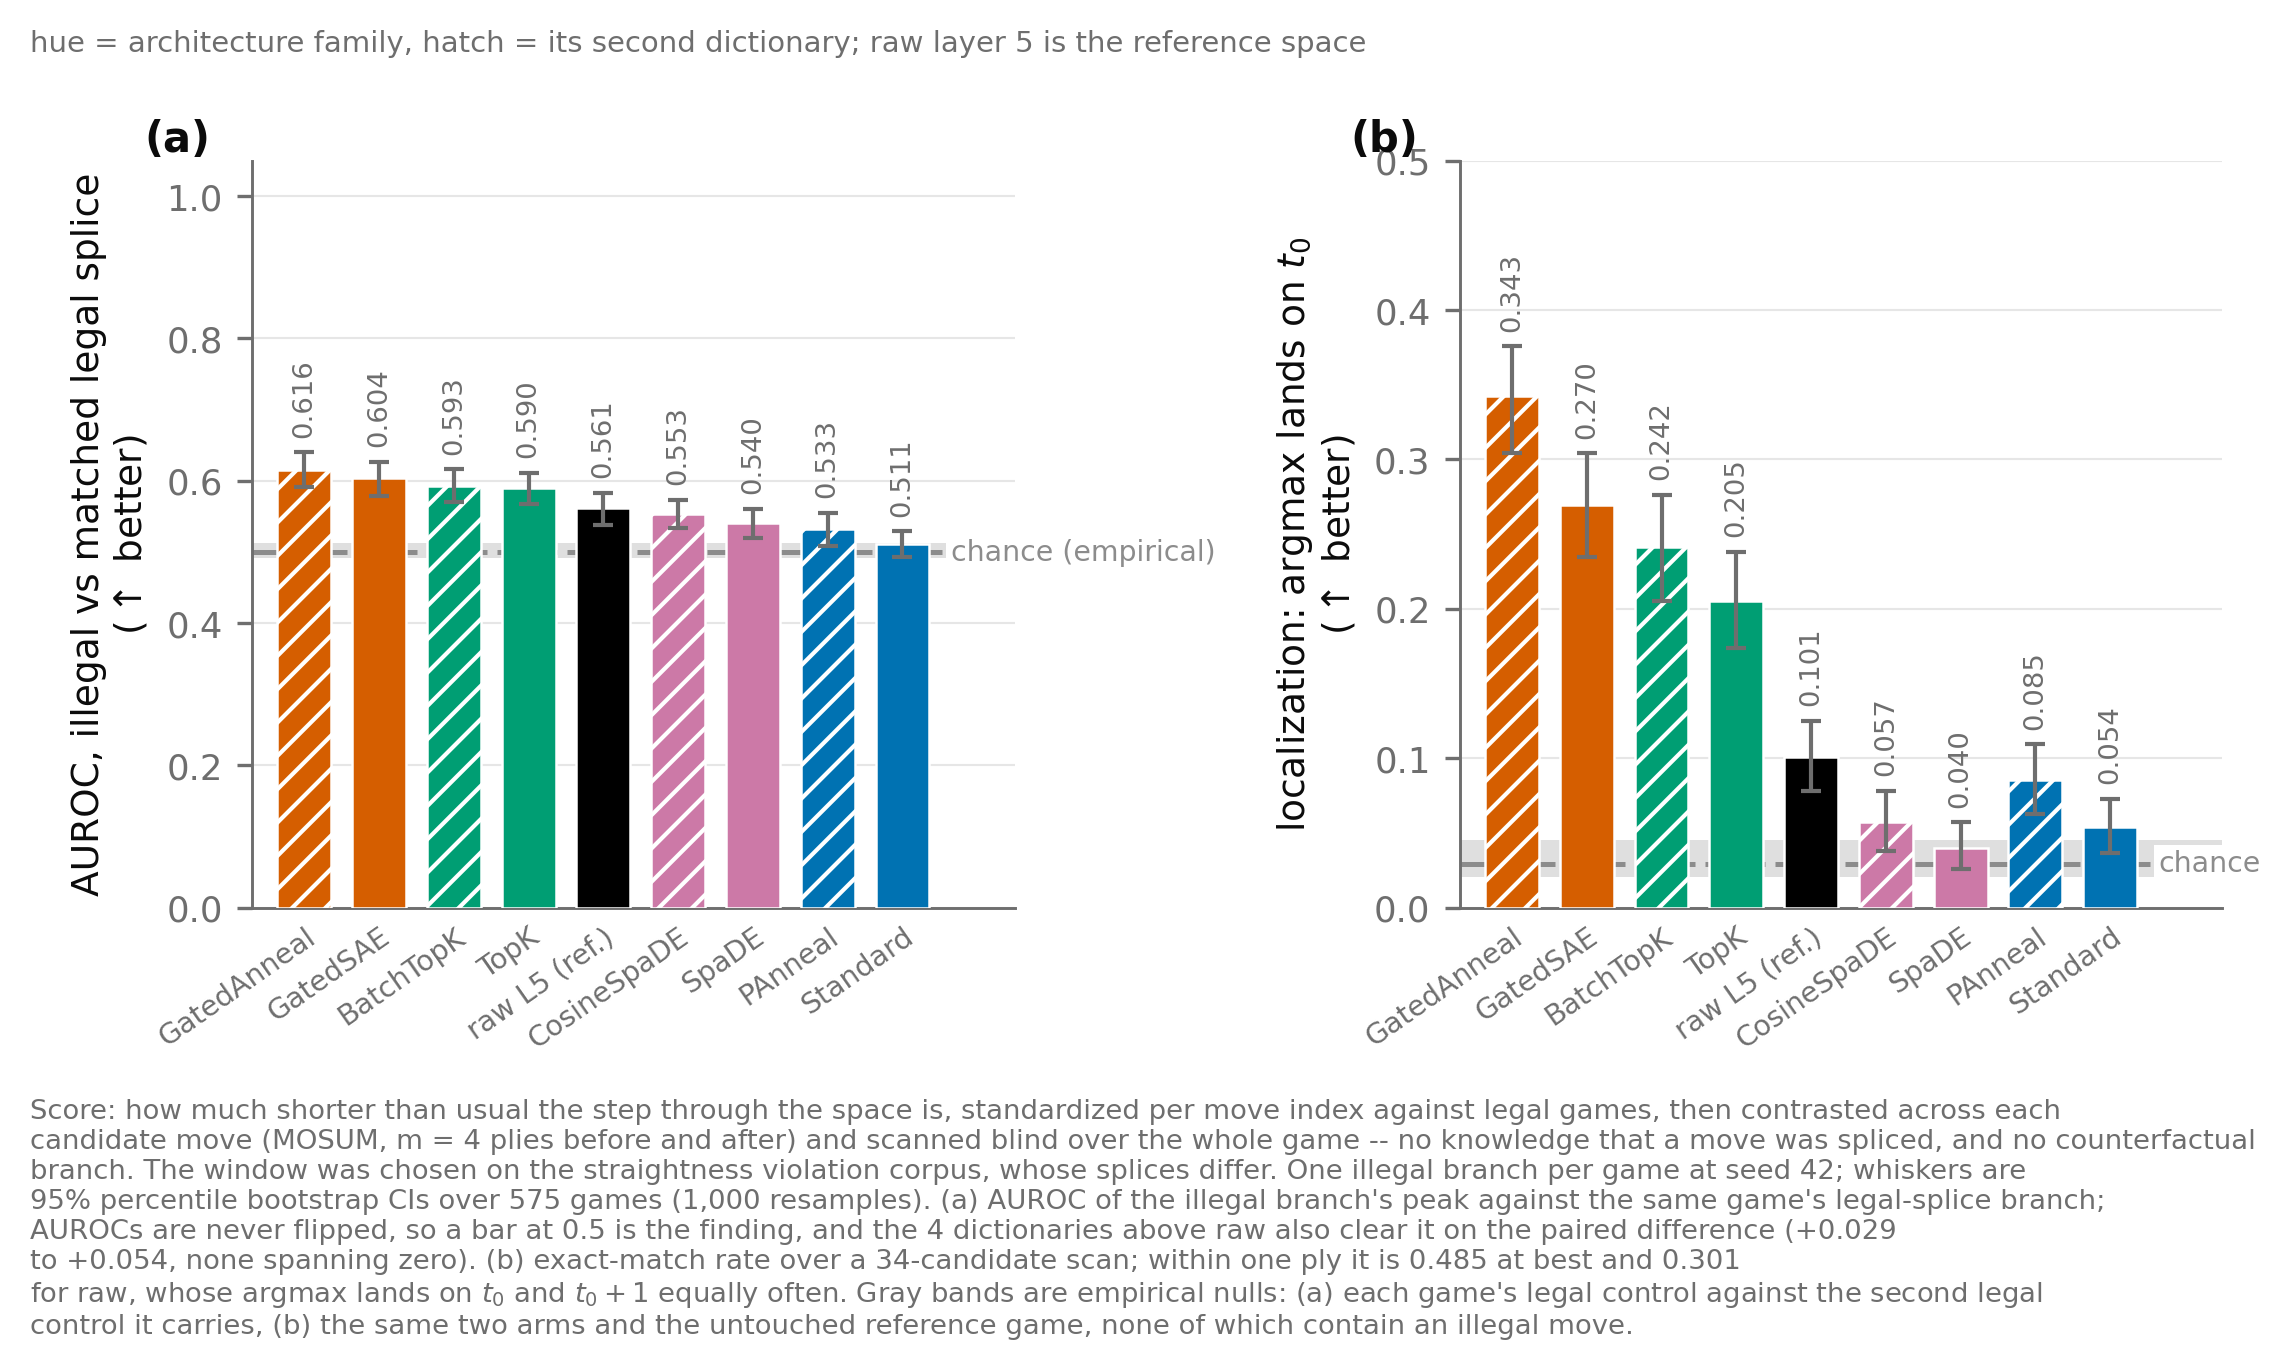
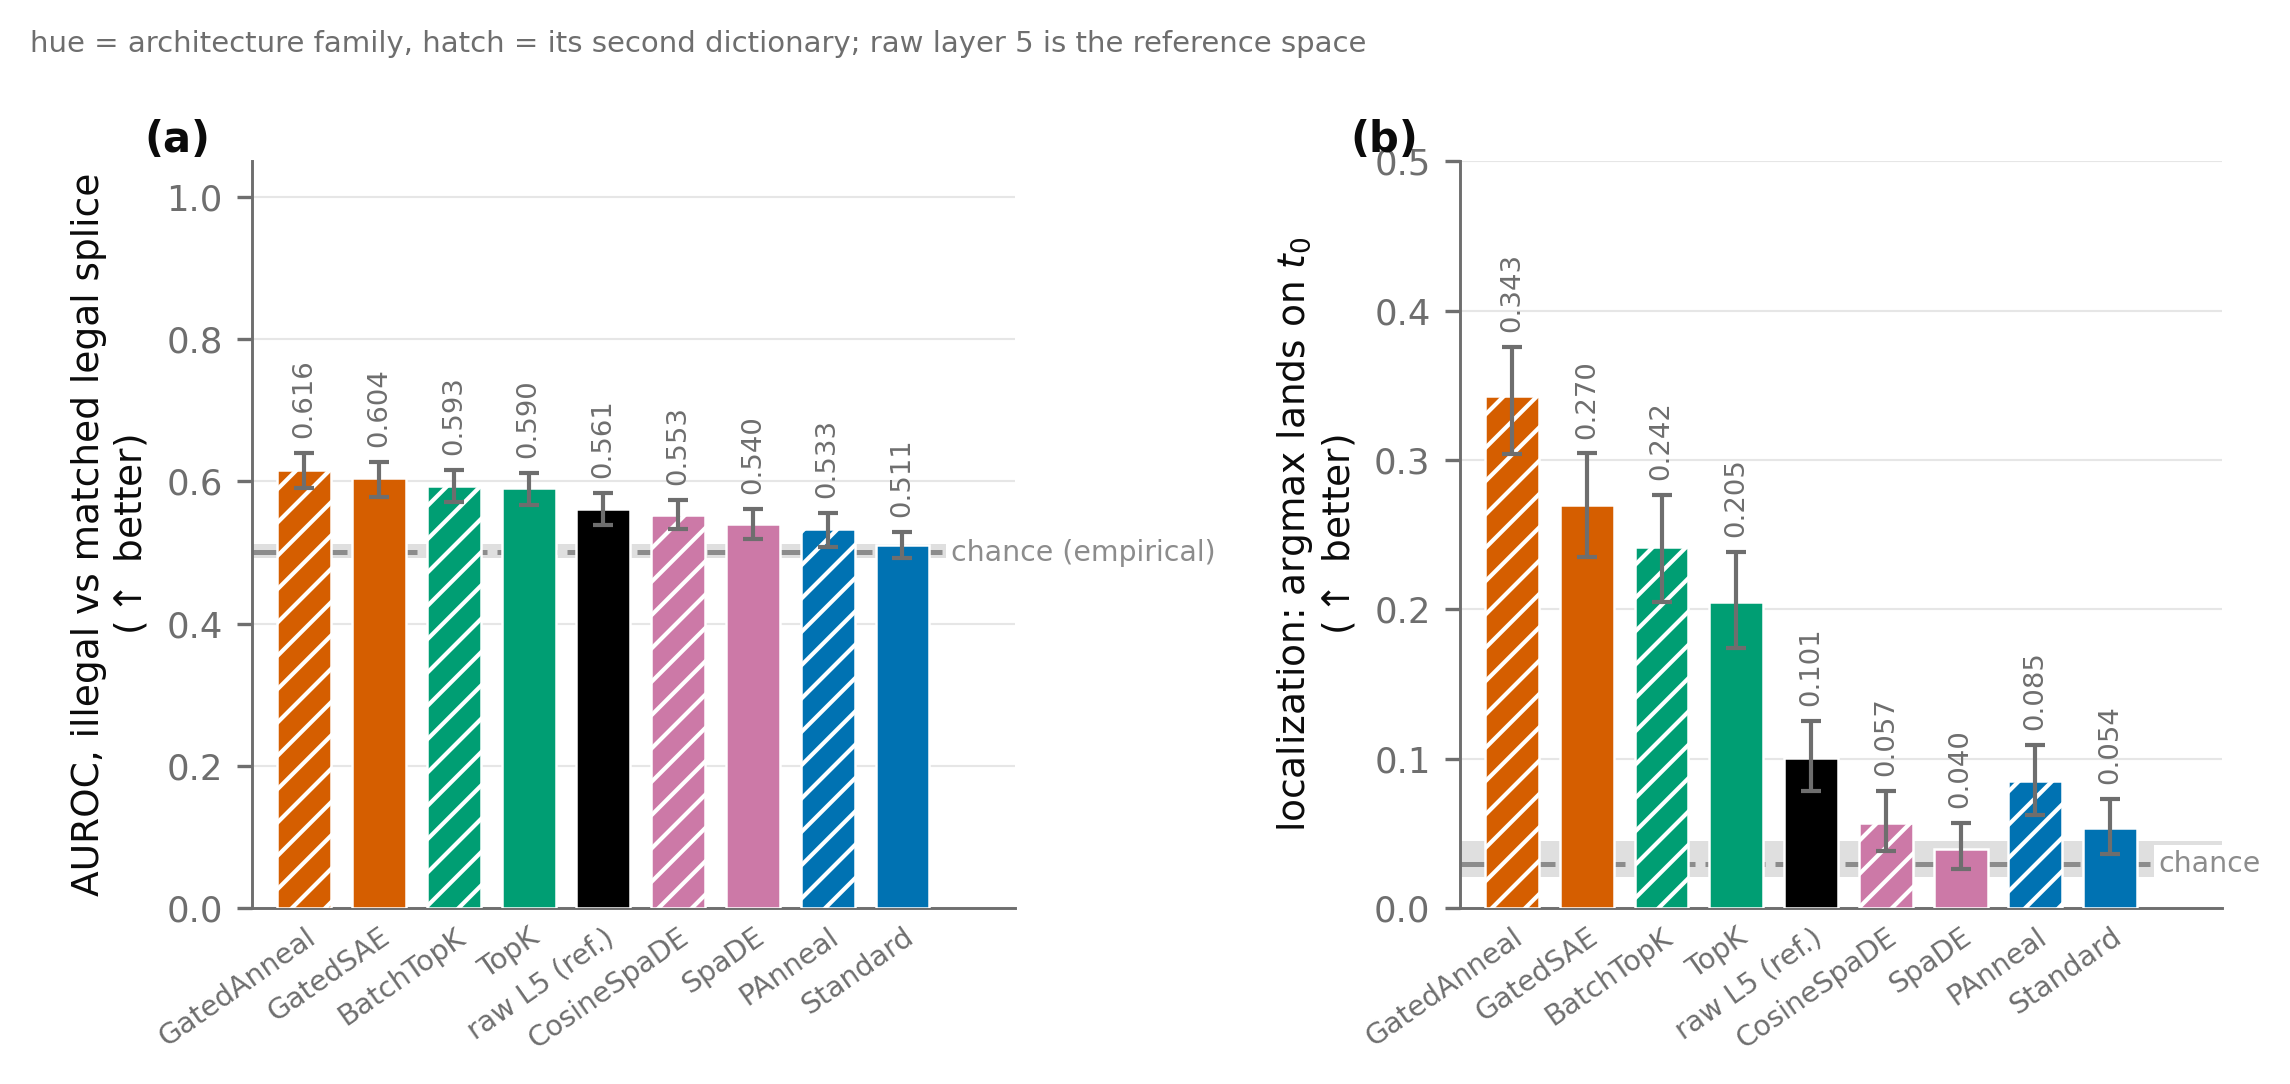
Drop the note under the axes; the caption moves to the README
Requested. The figure now carries only its panel letters, the hue/hatch key and
its two chance lines, which is most of what a slide or a talk wants and none of
what a reader needs to interpret the bands.

That makes it not standalone, so the estimator, n, seed, scan width and the two
nulls' semantics move into a caption paragraph under Results in the README rather
than being lost -- FIGURE_GUIDELINES 5 wants them somewhere, not necessarily on
the axes. The module docstring says where they went.

diff --git a/analysis/violation_divergence/changepoint_localization/make_figures.py b/analysis/violation_divergence/changepoint_localization/make_figures.py
@@ -9,6 +9,9 @@ Sorted by (a), because the ordering is the claim; raw layer 5 keeps reference st
 it lands, so the reader can see how many dictionaries clear it, and keeping one order across
 both panels is what makes the two rankings comparable.
 
+No note under the axes: the estimator, n, seed and null semantics are the caption, and the
+caption is the paragraph under "Results" in README.md. This figure is not standalone.
+
 Usage: python analysis/violation_divergence/changepoint_localization/make_figures.py
            [--camera-ready]
 """
@@ -74,29 +77,9 @@ def draw(table: pd.DataFrame, camera_ready: bool) -> Path:
           row.chance_uniform, (alarms.values.min(), alarms.values.max()), "(b)", 0.50,
           "chance")
 
-    span = "plies before and after" if row.statistic == "MOSUM" else "plies forward"
-    clears = table[table.auroc_minus_raw_lo > 0]
     fig.tight_layout(rect=(0, 0, 1, 0.94))
     fig.text(0.005, 0.985, "hue = architecture family, hatch = its second dictionary; "
              "raw layer 5 is the reference space", fontsize=7, color=MUTED, va="top")
-    fig.text(0.005, -0.005,
-             f"Score: how much shorter than usual the step through the space is, standardized per "
-             f"move index against legal games, then contrasted across each\ncandidate move "
-             f"({row.statistic}, m = {row.m:.0f} {span}) and scanned blind over the whole game -- no "
-             f"knowledge that a move was spliced, and no counterfactual\nbranch. The window was chosen "
-             f"on the straightness violation corpus, whose splices differ. One illegal branch per game "
-             f"at seed 42; whiskers are\n95% percentile bootstrap CIs over {row.n_games:.0f} games "
-             f"(1,000 resamples). (a) AUROC of the illegal branch's peak against the same game's "
-             f"legal-splice branch;\nAUROCs are never flipped, so a bar at 0.5 is the finding, and the "
-             f"{len(clears)} dictionaries above raw also clear it on the paired difference "
-             f"({clears.auroc_minus_raw.min():+.3f}\nto {clears.auroc_minus_raw.max():+.3f}, none "
-             f"spanning zero). (b) exact-match rate over a {1 / row.chance_uniform:.0f}-candidate scan; "
-             f"within one ply it is {table.hit_illegal_within_1.max():.3f} at best and "
-             f"{table.loc[table.space == REFERENCE_SPACE, 'hit_illegal_within_1'].iloc[0]:.3f}\nfor raw, "
-             f"whose argmax lands on $t_0$ and $t_0+1$ equally often. Gray bands are empirical nulls: "
-             f"(a) each game's legal control against the second legal\ncontrol it carries, (b) the same "
-             f"two arms and the untouched reference game, none of which contain an illegal move.",
-             ha="left", va="top", fontsize=6.6, color=MUTED)
     return save_figure(fig, HERE / "figures" / "changepoint_by_space", camera_ready)
 
 

diff --git a/analysis/violation_divergence/changepoint_localization/README.md b/analysis/violation_divergence/changepoint_localization/README.md
@@ -85,6 +85,20 @@ one sort order, so a space is the same column in both: (a) does the score know t
 contains an illegal move, (b) does its argmax say which ply. They separate the spaces very
 differently -- (a) spans 0.51-0.62, (b) spans 0.04-0.34 -- which is the point of drawing both.
 
+**Caption.** The figure carries no note under its axes, so this paragraph is its caption and
+it is not standalone without it. Both panels: nine representation spaces, one illegal branch
+per source game drawn at seed 42, n = 575 branch-complete games, whiskers 95% percentile
+bootstrap CIs over games (1,000 resamples, shared draws across spaces). Score is the
+per-move-index standardized step-length drop contrasted across each candidate move (MOSUM,
+m = 4 plies each side) and scanned blind over the whole game -- 34 candidates, no knowledge
+that a move was spliced, no counterfactual branch; the window was chosen on the straightness
+violation corpus. (a) AUROC of the illegal branch's peak against the same game's legal-splice
+branch, never flipped, so a bar at 0.5 is the finding. (b) exact-match rate of the argmax
+against t0. Gray bands are empirical nulls: in (a) each game's legal control scored against
+the second legal control it carries, in (b) those two arms and the untouched reference game,
+none of which contain an illegal move. Hue is the architecture family, hatch its second
+dictionary, and raw layer 5 keeps reference styling wherever it sorts.
+
 | space | AUROC vs legal splice | vs raw | vs clean game | hit@t0 | within ±1 |
 |---|---|---|---|---|---|
 | GatedAnneal | **0.616** [0.591, 0.640] | **+0.055** [+0.030, +0.080] | 0.811 | **0.343** | 0.485 |
